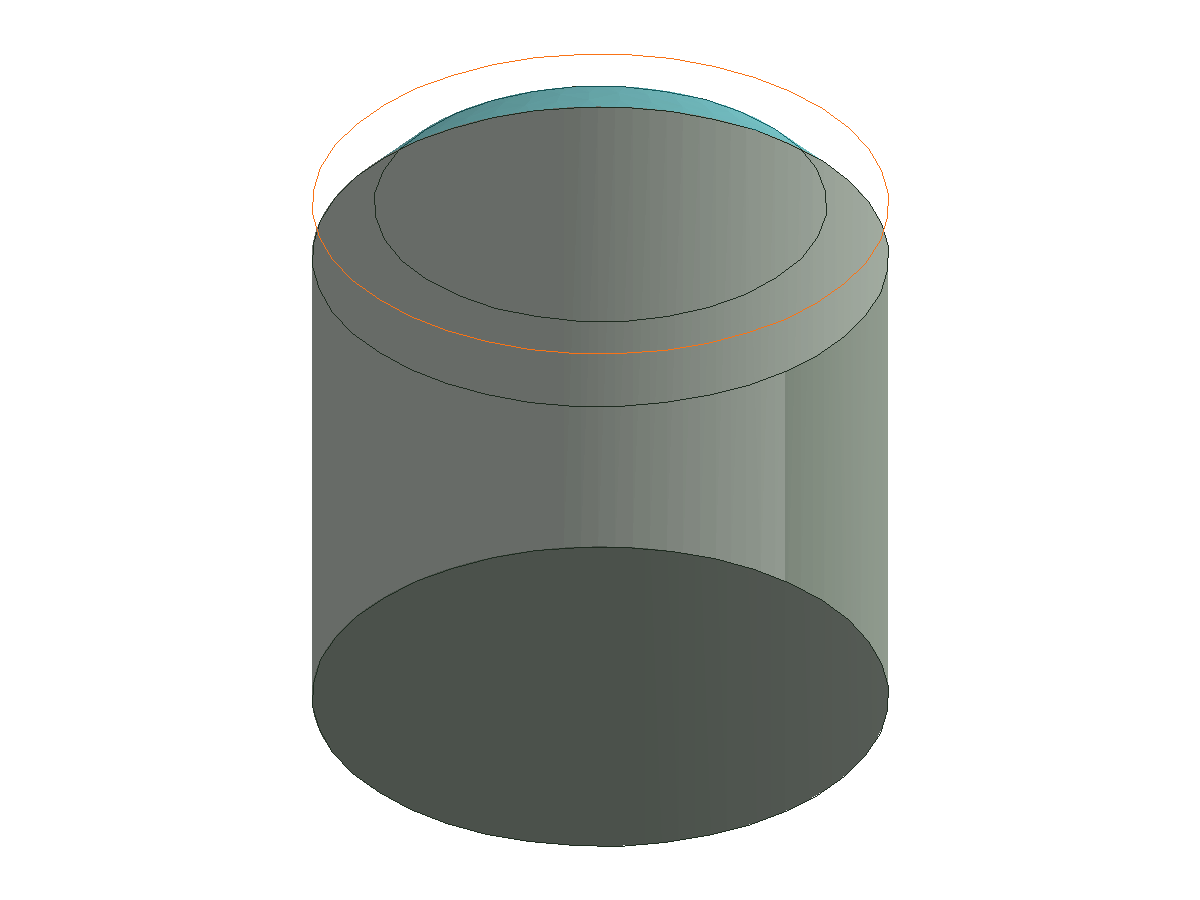
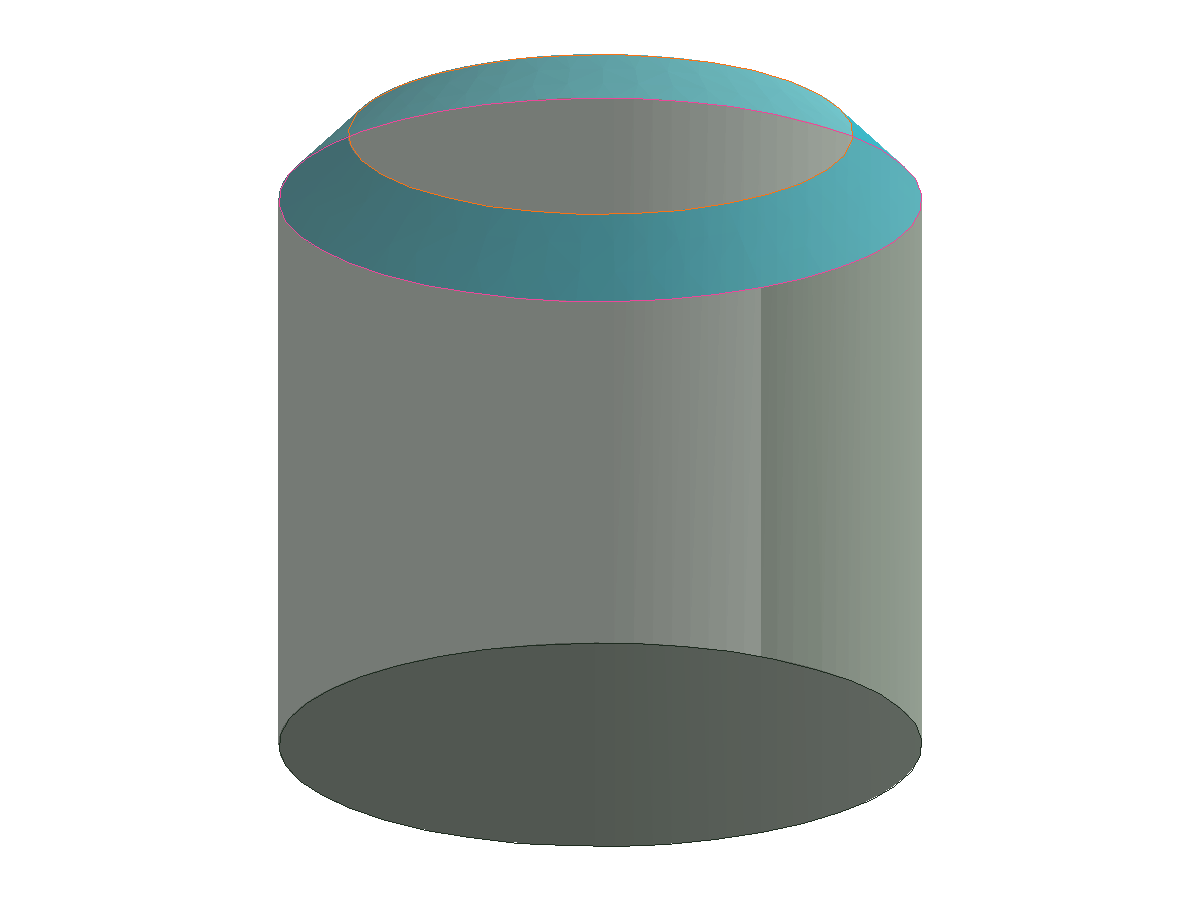
Clarify modifier edge semantics and review assets

Changed region(s): [[0.2158, 0.0622, 0.7708, 0.9333], [0.555, 0.9333, 0.5858, 0.9644], [0.4317, 0.9333, 0.4625, 0.9644]]

diff --git a/src/backend_occt.ts b/src/backend_occt.ts
@@ -5861,8 +5861,8 @@ export class OcctBackend implements Backend {
       if (matched.length === 0) continue;
 
       matched.sort((a, b) => {
-        const aSlot = this.edgeModifierDerivedBoundarySlot(a, slotRoot) ?? "";
-        const bSlot = this.edgeModifierDerivedBoundarySlot(b, slotRoot) ?? "";
+        const aSlot = this.edgeModifierDerivedEdgeSlot(a, label, slotRoot) ?? "";
+        const bSlot = this.edgeModifierDerivedEdgeSlot(b, label, slotRoot) ?? "";
         const bySlot = aSlot.localeCompare(bSlot);
         if (bySlot !== 0) return bySlot;
         const aTie = hashValue(this.selectionTieBreakerFingerprint("edge", a.meta));
@@ -5874,7 +5874,7 @@ export class OcctBackend implements Backend {
 
       const slotCounts = new Map<string, number>();
       for (const entry of matched) {
-        const slot = this.edgeModifierDerivedBoundarySlot(entry, slotRoot);
+        const slot = this.edgeModifierDerivedEdgeSlot(entry, label, slotRoot);
         if (!slot) continue;
         slotCounts.set(slot, (slotCounts.get(slot) ?? 0) + 1);
       }
@@ -5883,7 +5883,8 @@ export class OcctBackend implements Backend {
         const entry = matched[edgeIndex];
         if (!entry) continue;
         let slot =
-          this.edgeModifierDerivedBoundarySlot(entry, slotRoot) ?? `${slotRoot}.edge.${edgeIndex + 1}`;
+          this.edgeModifierDerivedEdgeSlot(entry, label, slotRoot) ??
+          `${slotRoot}.edge.${edgeIndex + 1}`;
         const duplicateCount = slotCounts.get(slot) ?? 0;
         if (duplicateCount > 1) {
           const index = (slotIndexes.get(slot) ?? 0) + 1;
@@ -5899,8 +5900,9 @@ export class OcctBackend implements Backend {
     }
   }
 
-  private edgeModifierDerivedBoundarySlot(
+  private edgeModifierDerivedEdgeSlot(
     entry: CollectedSubshape,
+    label: "fillet" | "chamfer",
     slotRoot: string
   ): string | null {
     const adjacentSlots = Array.isArray(entry.meta["adjacentFaceSlots"])
@@ -5913,11 +5915,16 @@ export class OcctBackend implements Backend {
       (slot) => slot === slotRoot || slot.startsWith(`${slotRoot}.part.`)
     );
     if (descendantSlots.length === 0) return null;
-    const preservedSlots = adjacentSlots.filter(
+    const neighborSlots = adjacentSlots.filter(
       (slot) => !(slot === slotRoot || slot.startsWith(`${slotRoot}.part.`))
     );
-    if (preservedSlots.length !== 1) return null;
-    return `${slotRoot}.bound.${preservedSlots[0]}`;
+    if (neighborSlots.length !== 1) return null;
+    const neighborSlot = neighborSlots[0];
+    if (!neighborSlot) return null;
+    if (neighborSlot.startsWith(`${label}.`)) {
+      return `${slotRoot}.join.${neighborSlot}`;
+    }
+    return `${slotRoot}.bound.${neighborSlot}`;
   }
 
   private annotateSplitFaceSelections(
@@ -6797,16 +6804,21 @@ export class OcctBackend implements Backend {
     if (points.length < 2) return null;
     const projected = this.projectBoundsOnBasis(points, origin, xDir, yDir);
     const near = (a: number, b: number) => Math.abs(a - b) <= tolerance;
-    if (near(projected.uMin, extents.uMin) && near(projected.uMax, extents.uMin)) {
+    const uSpan = projected.uMax - projected.uMin;
+    const vSpan = projected.vMax - projected.vMin;
+    const uMid = (projected.uMin + projected.uMax) / 2;
+    const vMid = (projected.vMin + projected.vMax) / 2;
+    const axisTolerance = tolerance * 4;
+    if (uSpan <= axisTolerance && near(uMid, extents.uMin)) {
       return "uMin";
     }
-    if (near(projected.uMin, extents.uMax) && near(projected.uMax, extents.uMax)) {
+    if (uSpan <= axisTolerance && near(uMid, extents.uMax)) {
       return "uMax";
     }
-    if (near(projected.vMin, extents.vMin) && near(projected.vMax, extents.vMin)) {
+    if (vSpan <= axisTolerance && near(vMid, extents.vMin)) {
       return "vMin";
     }
-    if (near(projected.vMin, extents.vMax) && near(projected.vMax, extents.vMax)) {
+    if (vSpan <= axisTolerance && near(vMid, extents.vMax)) {
       return "vMax";
     }
     return null;

diff --git a/src/examples/dsl_feature_examples.ts b/src/examples/dsl_feature_examples.ts
@@ -498,13 +498,13 @@ export const dslFeatureExamples: DslFeatureExample[] = [
         parallel: true,
       },
       renderOpts: {
-        viewDir: [1.2, -1.0, 0.95],
+        viewDir: [1.55, -0.35, 0.4],
       },
       layers: [
         {
           output: "body:main",
           color: [221, 205, 186],
-          alpha: 0.82,
+          alpha: 0.74,
           wireframe: true,
           wireColor: [40, 34, 28],
           wireDepthTest: false,
@@ -515,15 +515,23 @@ export const dslFeatureExamples: DslFeatureExample[] = [
         {
           selectionId: "face:body.main~review-fillet.fillet.seed.1",
           color: [34, 197, 94],
-          alpha: 0.46,
+          alpha: 0.5,
           wireframe: false,
-          depthTest: true,
+          depthTest: false,
         },
         {
-          selectionId: "edge:body.main~cyl.h74080499fc506b52.1",
+          selectionId: "edge:body.main~review-fillet.fillet.seed.1.bound.top",
           alpha: 0,
           wireframe: true,
           wireColor: [249, 115, 22],
+          wireDepthTest: false,
+          depthTest: false,
+        },
+        {
+          selectionId: "edge:body.main~review-fillet.fillet.seed.1.bound.side.1",
+          alpha: 0,
+          wireframe: true,
+          wireColor: [6, 182, 212],
           wireDepthTest: false,
           depthTest: false,
         },
@@ -598,13 +606,13 @@ export const dslFeatureExamples: DslFeatureExample[] = [
         parallel: true,
       },
       renderOpts: {
-        viewDir: [1.2, -1.0, 0.95],
+        viewDir: [1.35, -0.78, 0.52],
       },
       layers: [
         {
           output: "body:main",
           color: [198, 215, 196],
-          alpha: 0.82,
+          alpha: 0.74,
           wireframe: true,
           wireColor: [30, 44, 32],
           wireDepthTest: false,
@@ -615,15 +623,23 @@ export const dslFeatureExamples: DslFeatureExample[] = [
         {
           selectionId: "face:body.main~review-chamfer.chamfer.seed.1",
           color: [6, 182, 212],
-          alpha: 0.42,
+          alpha: 0.46,
           wireframe: false,
-          depthTest: true,
+          depthTest: false,
         },
         {
-          selectionId: "edge:body.main~cyl.h74080499fc506b52.1",
+          selectionId: "edge:body.main~review-chamfer.chamfer.seed.1.bound.top",
           alpha: 0,
           wireframe: true,
           wireColor: [249, 115, 22],
+          wireDepthTest: false,
+          depthTest: false,
+        },
+        {
+          selectionId: "edge:body.main~review-chamfer.chamfer.seed.1.bound.side.1",
+          alpha: 0,
+          wireframe: true,
+          wireColor: [236, 72, 153],
           wireDepthTest: false,
           depthTest: false,
         },

diff --git a/src/tests/occt.modifier_lineage.e2e.test.ts b/src/tests/occt.modifier_lineage.e2e.test.ts
@@ -254,6 +254,52 @@ const tests = [
     },
   },
   {
+    name: "occt modifier lineage: multi-edge chamfer uses join slots for derived-to-derived edges",
+    fn: async () => {
+      const { backend, occt } = await getBackendContext();
+      const part = dsl.part("chamfer-join-lineage", [
+        dsl.extrude("block", dsl.profileRect(20, 12), 10, "body:main"),
+        dsl.chamfer(
+          "edge-chamfer",
+          dsl.selectorEdge([dsl.predCreatedBy("block")], [dsl.rankMaxZ()]),
+          2,
+          ["block"]
+        ),
+      ]);
+
+      const result = buildPart(part, backend);
+      const output = result.final.outputs.get("body:main");
+      assert.ok(output, "missing chamfer result");
+      assertValidShape(occt, output.meta["shape"] as any, "multi-edge chamfer lineage result");
+
+      const slots = result.final.selections
+        .filter(
+          (selection) =>
+            selection.kind === "edge" &&
+            selection.meta["createdBy"] === "edge-chamfer" &&
+            typeof selection.meta["selectionSlot"] === "string"
+        )
+        .map((selection) => String(selection.meta["selectionSlot"]));
+
+      assert.ok(
+        slots.some((slot) => slot.includes(".join.chamfer.seed.")),
+        `expected at least one derived-to-derived join slot, got ${JSON.stringify(slots)}`
+      );
+      assert.ok(
+        !slots.some((slot) => slot.includes(".bound.chamfer.seed.")),
+        `expected no derived-to-derived bound slots, got ${JSON.stringify(slots)}`
+      );
+      assert.ok(
+        slots.some((slot) => slot === "chamfer.seed.1.bound.top"),
+        `expected top boundary slot, got ${JSON.stringify(slots)}`
+      );
+      assert.ok(
+        slots.some((slot) => slot === "chamfer.seed.1.bound.side.1"),
+        `expected preserved-face side boundary slot, got ${JSON.stringify(slots)}`
+      );
+    },
+  },
+  {
     name: "occt modifier lineage: draft preserves selected side slot with modified lineage",
     fn: async () => {
       const { backend, occt } = await getBackendContext();

diff --git a/specs/runtime-contract.md b/specs/runtime-contract.md
@@ -304,8 +304,15 @@ Diagnostics expectations for broken references:
 - durable face ids emitted by build results. Legacy numeric ids
   (`face:<number>`) are unsupported and non-persistent.
 - stable selection ids include an owner token plus a producer token
-  (`face:<owner>~<feature>.<hash>`), which allows clients and the compiler to
-  preserve references without relying on traversal order.
+  (`face:<owner>~<feature>.<slot-or-fallback>`), which allows clients and the
+  compiler to preserve references without relying on traversal order.
+- semantic ids can include feature-derived slots, not only hashes. Examples:
+  - `face:body.main~base.top`
+  - `edge:body.main~edge-fillet.fillet.seed.1.bound.top`
+  - `edge:body.main~edge-chamfer.chamfer.seed.1.join.chamfer.seed.2`
+- when an output cannot be named semantically, runtime falls back to a
+  deterministic hashed suffix. Clients should still treat the full id as the
+  canonical stable token.
 
 ## Modifier Named Outputs
 `feature.hole`, `feature.fillet`, and `feature.chamfer` accept optional `result` names.
@@ -313,6 +320,39 @@ Diagnostics expectations for broken references:
 - When `result` is provided, the modified body is published under that name.
 - When omitted, runtime preserves the owner output key behavior for backward compatibility.
 - Downstream `selector.named(...)` references to modifier outputs should target explicit `result` names for deterministic graph dependency inference.
+
+## Semantic Descendant Edge IDs
+Modifier features can emit semantic descendant edge ids for newly created final
+topology. External services should use these ids exactly as returned by build
+results, typically by passing them back through `selector.named(...)`.
+
+- `*.bound.<face-slot>`
+  - Means the descendant edge lies between the modifier-created face and a
+    preserved neighboring face.
+  - Example:
+    `edge:body.main~edge-fillet.fillet.seed.1.bound.top`
+- `*.join.<other-modifier-slot>`
+  - Means the descendant edge lies between two modifier-created faces.
+  - Example:
+    `edge:body.main~edge-chamfer.chamfer.seed.1.join.chamfer.seed.2`
+- `*.edge.<n>`
+  - Deterministic fallback for a descendant edge that is real and stable but
+    not yet classified more precisely (for example seam-like or ambiguous cases).
+
+Related metadata on emitted edge selections:
+- `selectionSlot`
+  - The semantic slot portion used in the canonical id when available.
+- `selectionLineage`
+  - Provenance such as `{ "kind": "modified", "from": "<source-edge-id>" }`.
+- `adjacentFaceSlots`
+  - The neighboring face slots used to classify boundary/join edges.
+
+Client guidance:
+- Prefer the full emitted id as the canonical reference token.
+- You may inspect `selectionSlot`, `selectionLineage`, and `adjacentFaceSlots`
+  for UI or auditing, but do not reconstruct ids yourself.
+- Treat `*.bound.*` and `*.join.*` as stronger semantic anchors than
+  `*.edge.<n>`, which is a deliberate fallback.
 
 ## Stable Payload Fixtures
 Mirror fixture:

diff --git a/docs/reference/dsl/selectors.md b/docs/reference/dsl/selectors.md
@@ -38,3 +38,24 @@ Examples:
 - [Fillet](./examples/features#fillet)
 - [Hole](./examples/features#hole)
 - [Assembly connectors](./examples/assembly#basic-assembly)
+
+## Stable Named Selections
+
+`selectorNamed(...)` can target emitted stable selection ids directly. This is
+the intended contract for external tools and services that want to reuse a
+selection from a prior build.
+
+Examples:
+
+```ts
+selectorNamed("face:body.main~base.top");
+selectorNamed("edge:body.main~edge-fillet.fillet.seed.1.bound.top");
+selectorNamed("edge:body.main~edge-chamfer.chamfer.seed.1.join.chamfer.seed.2");
+```
+
+Guidance:
+- Use the full emitted id exactly as returned by the runtime.
+- Prefer semantic ids like `*.bound.*` and `*.join.*` when present.
+- If runtime emits a fallback id (for example `*.edge.1` or a hashed suffix),
+  it is still valid and stable; treat it as an opaque token rather than trying
+  to infer geometry from the name.
